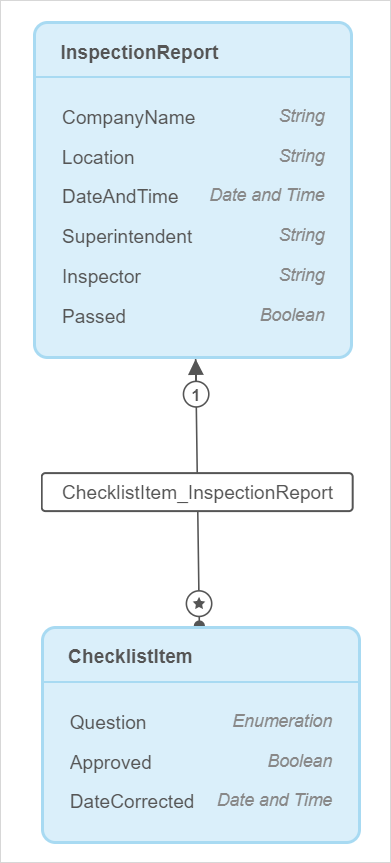
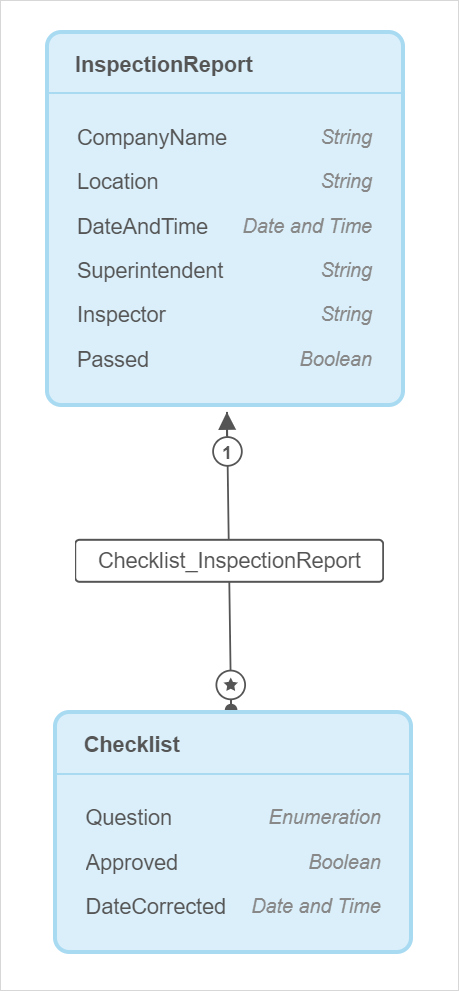
Rewrite how-to on a form

Changed region(s): [[0.0614, 0.0, 0.9207, 0.9942], [0.89, 0.5423, 0.9207, 0.6025], [0.0921, 0.5423, 0.1228, 0.6025]]

diff --git a/content/studio-how-to/pages-how-to-configure-form.md b/content/studio-how-to/pages-how-to-configure-form.md
@@ -23,7 +23,7 @@ The HSE department of your company has the following inspection report:
 
 Your company has an application that is used by inspectors who travel to different companies and inspect whether these companies comply with safety regulations. They fill in their names, a company name, site location, date and time when the inspection was conducted, as well as full name of a superintendent who was present during the inspection. 
 
-Inspectors also have a safety inspection checklist. Based on this checklist the inspector evaluates whether the company passed the inspection. They should check and tick the following checklist items or **questions**:
+Inspectors also have a safety inspection *checklist*. Based on this checklist the inspector evaluates whether the company passed the inspection. They should check and tick the following checklist items or *questions*:
 
 * If emergency contact posters are displayed
 * If safety training are held regularly
@@ -36,7 +36,7 @@ You have a list of all inspection reports:
 
 <img src="attachments/pages-how-to-configure-form/inspection-report-list.png" style="zoom:50%;" />
 
-You would like the **Details** button in this list to open a pop-up page showing the details of the selected report and its check list items. 
+You would like the **Details** button in this list to open a pop-up page showing the details of the selected report and a table with check list questions related to this report.  
 
 ## 2 Prerequisites
 
@@ -48,7 +48,11 @@ Before starting this how-to, make sure you have completed the following prerequi
 
 * Make sure your domain model is configured the following way:
 
-    <img src="attachments/pages-how-to-configure-form/domain-model.png" alt="Domain Model" style="zoom: 60%;" />
+    <img src="attachments/pages-how-to-configure-form/domain-model.png" alt="Domain Model" style="zoom: 50%;" />
+
+    * Make sure you have configured the Question attribute as an enumeration:
+
+		<img src="attachments/pages-how-to-configure-form/enumeration.png" style="zoom:60%;" />
 
 * Make sure you have a page with inspection reports list and the **Details** button:
 
@@ -56,25 +60,25 @@ Before starting this how-to, make sure you have completed the following prerequi
 
 ## 3 Adding a Page with a Form
 
-You would like to open a page with inspection report details clicking the **Details** button in the report list. Do the following:
+The **Details** button in the inspection report list should open a page with the inspection report details. To configure the page, do the following:
 
 1. Click the **Details** button and go its properties.
 
 2. Set **Page** as an on-click action and click the **Page** property.
 
-	![Button Properties](attachments/pages-how-to-configure-form/button-properties.png)
+	<img src="attachments/pages-how-to-configure-form/button-properties.png" alt="Button Properties" style="zoom:70%;" />
 
-3.  In the **Select Page** dialog box, click **New Page**, and do the following:
+3.  In the **Select Page** dialog box, click **New Page**.
 
 1.  In the **Create new page** dialog box, fill in the page title. 
 
-2.  You can see that the **Pre-fill page contents based on the InspectionReport entity** option is on, so the page template (Forms) is selected automatically for you. Choose **Forms Vertical**:
+2.  The **Pre-fill page contents based on the InspectionReport entity** option is on, so the page template (Forms) is selected automatically for you. Choose **Forms Vertical**:
 
 	<img src="attachments/pages-how-to-configure-form/create-new-page.png" alt="Create New Page" style="zoom:50%;" />
 
 3. Click **Create**.
 	
-3. The page with a form (a data view) is created. However, the data view's data source was automatically set to **List widget**, you need to change that. Select the data view, go to its properties, and follow the steps below:
+3. The page with a form (a data view) is created. However, the data view's data source was automatically set to **List widget**, you need to change that. Select the data view and go to its properties.
 
 1. Change the data source from **List widget** to **Context**.
 
@@ -86,25 +90,27 @@ The form on the page is configured:
 
  <img src="attachments/pages-how-to-configure-form/data-view-configured.png" style="zoom:60%;" />
 
-## 4 Showing Checklist Items
+## 4 Showing Checklist Questions
 
-In the initial inspection report, checklist is a table where an inspector has a list of *questions* and ticks the **Yes** or **No** column next to the question: whether the company has posters with emergency contacts, whether it conducts safety trainings regularly, etc. 
+An inspector has a list of *questions* and indicates with **Yes** or **No** whether meets the regulation: whether the company has posters with emergency contacts, whether it conducts safety trainings regularly, etc. You would like to show a table with the checklist questions and their results below the inspection report: 
 
-To display checklist items in a table, you can add a data grid. It is important that you place it *inside* the data view: this way the data grid will access and display only checklist items associated with the current report rather than display all checklist items ever added to all reports. This means your data grid will get data over an association, in this case called ChecklistItem_InspectionReport.
+<img src="attachments/pages-how-to-configure-form/inspection-report-example.png" style="zoom:60%;" />
+
+To display checklist details in a table, you can add a data grid. It is important that you place it *inside* the data view: this way the data grid will access and display only checklist items associated with the current report rather than display all checklist items ever added to all reports. This means your data grid will get data over an association, in this case called *Checklist_InspectionReport*.
 
 Follow the steps below:
 
 1. Open **Toolbox** > **Data Containers**.
 
-2. Drag and drop **Data Grid** *inside* the data view (you can see if you placed it correctly on the breadcrumb at the bottom of the page):
+2. Drag and drop **Data Grid** *inside* the data view (you can view the breadcrumb at the bottom of the page to check if you placed the data grid correctly):
 
     ![](attachments/pages-how-to-configure-form/breadcrumb.png)
 
-3. In the data grid properties, click **Entity**.  
+3. Go to the data grid properties and click **Entity**.  
 
-4. To show only checklist items associated with the current inspection report, choose the **Checklist** entity over association (*ChecklistItem_InspectionReport/ChecklistItem*) in the **Select Entity** dialog box and click **Select**:
+4. To show only checklist items associated with the current inspection report, choose the **Checklist** entity over association (*Checklist_InspectionReport/Checklist*) in the **Select Entity** dialog box and click **Select**:
 
-    <img src="attachments/pages-how-to-configure-form/data-grid-over-association.png" style="zoom:70%;" />
+    <img src="attachments/pages-how-to-configure-form/data-grid-over-association.png" style="zoom:50%;" />
 
 5. As the purpose of the page is to display information, you do not need the **Search** section in the data grid. Open data grid properties > **Search** section and disable the **Enable Search** toggle:
 
@@ -118,8 +124,8 @@ Now checklist items are displayed in a table below the inspection report details
 
 Congratulations! You have a page that displays details of the selected report and checklist items of this report:
 
-<img src="attachments/pages-how-to-configure-form/configured-page.png" alt="Configured Page" style="zoom:67%;" />
+<img src="attachments/pages-how-to-configure-form/configured-page.png" alt="Configured Page" style="zoom:60%;" />
 
 You can now preview your app and test your page. For more information on how to preview your page, see [Previewing & Publishing Your App](/studio/publishing-app).
 
-You can also work on the page details, for example, add a dynamic image to the list to display a unique company logo next to its name. For more information on dynamic images, see [Images & Files](/studio/page-editor-widgets-images-and-files).
+You can also work on the page details, for example, add a dynamic image to the inspection report list to display a unique company logo next to its name. For more information on dynamic images, see [Images & Files](/studio/page-editor-widgets-images-and-files).
